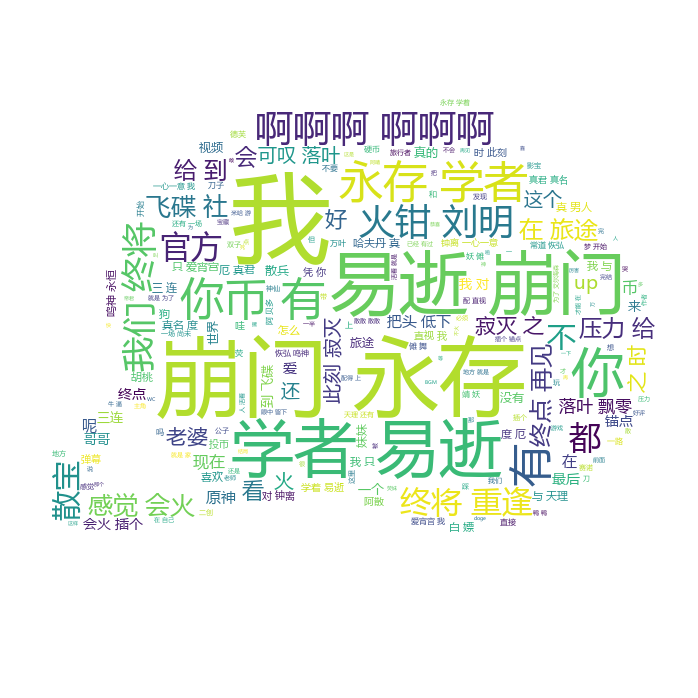
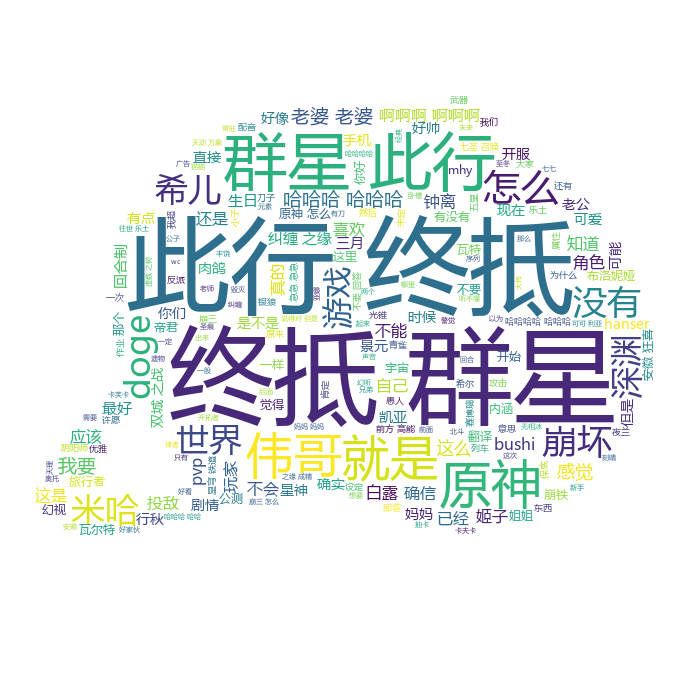
v4 返回网页增加了视频名封面与链接

Changed region(s): [[0.0301, 0.1203, 0.9327, 0.7822]]

diff --git a/templates/success.html b/templates/success.html
@@ -1,5 +1,5 @@
 <!DOCTYPE html>
-<html lang="en">
+<html lang="en" xmlns="http://www.w3.org/1999/html">
 <head>
     <meta charset="UTF-8">
     <meta http-equiv="X-UA-Compatible" content="IE=edge">
@@ -15,7 +15,11 @@
         {{ bootstrap.load_js() }}
     </main>
     <div>
-        <img src="{{ url_for('static', filename='p1.png')}}" width="112" height="112" >
+		<img src="{{ url_for('static', filename='p2.jpg')}}" width="100" height="100"  style="vertical-align: middle;"/>
+		<a href="https://www.bilibili.com/video/BV{{ flask_bv }}">{{flask_name}}</a>
+    </div>
+    <div>
+        <img src="{{ url_for('static', filename='p1.png')}}" width="1000" height="1000" >
     </div>
 </body>
 </html>

diff --git a/cid.py b/cid.py
@@ -23,22 +23,40 @@ headers = {
 }
 class wdcloud:
     def __init__(self,bv):
-        #写得有点长但是对的
-        self.cid = requests.get(url='https://api.bilibili.com/x/player/pagelist?bvid='+bv, headers=headers).json()['data'][0]['cid']
-        #
+        #获取cid，用于请求弹幕数据，这里使用了b站的api，通过bv号找到包含cid的json数据再解析出来
+        self.data = requests.get(url='https://api.bilibili.com/x/player/pagelist?bvid='+bv, headers=headers).json()['data'][0]
+        self.cid = self.data['cid']
+        self.name = str(self.data['part'])
+        self.frame = str(self.data['first_frame'])
+        #得到词云
+    def loadframe(self):
+        re = requests.get(self.frame, headers=headers)
+        print(re.status_code)  # 查看请求状态，返回200说明正常
+        path = 'D:\learn\py&deeplearn\py4\static\p2.jpg'  # 文件储存地址
+        with open(path, 'wb') as f:  # 把图片数据写入本地，wb表示二进制储存
+                f.write(re.content)
     def makeph(self):
+        #利用另一个api请求到评论
         response = requests.get(url='http://comment.bilibili.com/'+str(self.cid)+'.xml', headers=headers)
+        #中文
         response.encoding = "utf-8"
         r = response.text
+        #构造正则表达式提取文本，得到的是列表，连接后用jieba分词再重新连接成以空格分隔的文本
 
         pattern = re.compile('>(.*?)</d>', re.S)
         items = re.findall(pattern, r)
-        litext = ' '.join(items)
-        ls = jieba.cut(litext)
-        text = ' '.join(ls)
+        items2 = []
 
+        litext = ' '.join(items)
+        #改进去除了单个字，分词效果好不少
+        ls = jieba.cut(litext)
+        for wordt in ls:
+            if (len(wordt) > 1):
+                items2.append(wordt)
+        text = ' '.join(items2)
+        #设置取消报错提示，设置去除的词
         jieba.setLogLevel(jieba.logging.INFO)
-        stopwords = ["的", "是", "了", "不是", "是", "就", "没", "这", "也","什么","吧","啊"]  # 去掉不需要显示的词
+        stopwords = ["可以","不是","什么","一个","一下","这样","这个","所以"]
 
         img = Image.open("D:\图库\图片\cybj.png")  # 打开图片
         mask = np.array(img)  # 将图片装换为数组
@@ -51,6 +69,6 @@ class wdcloud:
                        stopwords=stopwords)
 
         wc.generate_from_text(text)
-        wc.to_file(r"D:\learn\py&deeplearn\v2\static\p1.png")
-
+        wc.to_file(r"D:\learn\py&deeplearn\py4\static\p1.png")
+        #注意加r
 

diff --git a/app.py b/app.py
@@ -6,14 +6,16 @@ from wtforms.validators import DataRequired, Length
 from cid import wdcloud
 import base64
 # https://bootstrap-flask.readthedocs.io/en/latest/
-#引入表单类，继承LoginForm，删掉password与remember me
-class LoginForm(FlaskForm):
+#引入表单类，继承LoginForm，
+class WdcloudForm(FlaskForm):
     bv = StringField(label='BV', validators=[DataRequired(), Length(1, 30)])
-     # password = PasswordField(label='Password', validators=[DataRequired(), Length(4, 10)])
-    # remember = BooleanField(label='Remember me')
+    #下面注释是从网上复制的flask模板先留着
+    #password = StringField(label='Password', validators=[DataRequired(), Length(4, 10)])
+    #remember = BooleanField(label='Remember me')
     submit = SubmitField(label='submit')
 
-
+class SForm(FlaskForm):
+    bv = StringField(label='BV', validators=[DataRequired(), Length(1, 30)])
 app = Flask(__name__)
 app.config['SECRET_KEY'] = 'hello-flask'   # RuntimeError: A secret key is required to use CSRF.
 bootstrap = Bootstrap(app=app)  # 初始化bootstrap
@@ -23,23 +25,25 @@ bv = None
 
 @app.route('/login_success')
 def success():
-    wd=wdcloud(bv)
+    #   wdcloud是在cid中定义的类，其中方法makeph可以生成词云图并将其保存到静态文件夹
+    #   success.html用于显示生成的词云图
+    wd = wdcloud(bv)
     wd.makeph()
-
-
-    return render_template('success.html')
+    wd.loadframe()
+    print(bv)
+    return render_template('success.html',flask_name=wd.name, flask_bv=bv)
 
 
 @app.route('/', methods=['GET', 'POST'])
 def index():
-    #使用定义的form类
-    form = LoginForm()
+    #   使用定义的form类
+    form = WdcloudForm()
     if form.validate_on_submit():
+        #   得到bv值，也可以放到success里
         global bv
         bv = form.bv.data
-
-        # pwd = form.password.data
-        # 重定向为GET请求
+        #   重定向为GET请求
         return redirect((url_for('success')))
     return render_template('index.html', form=form)
 app.run()
+
